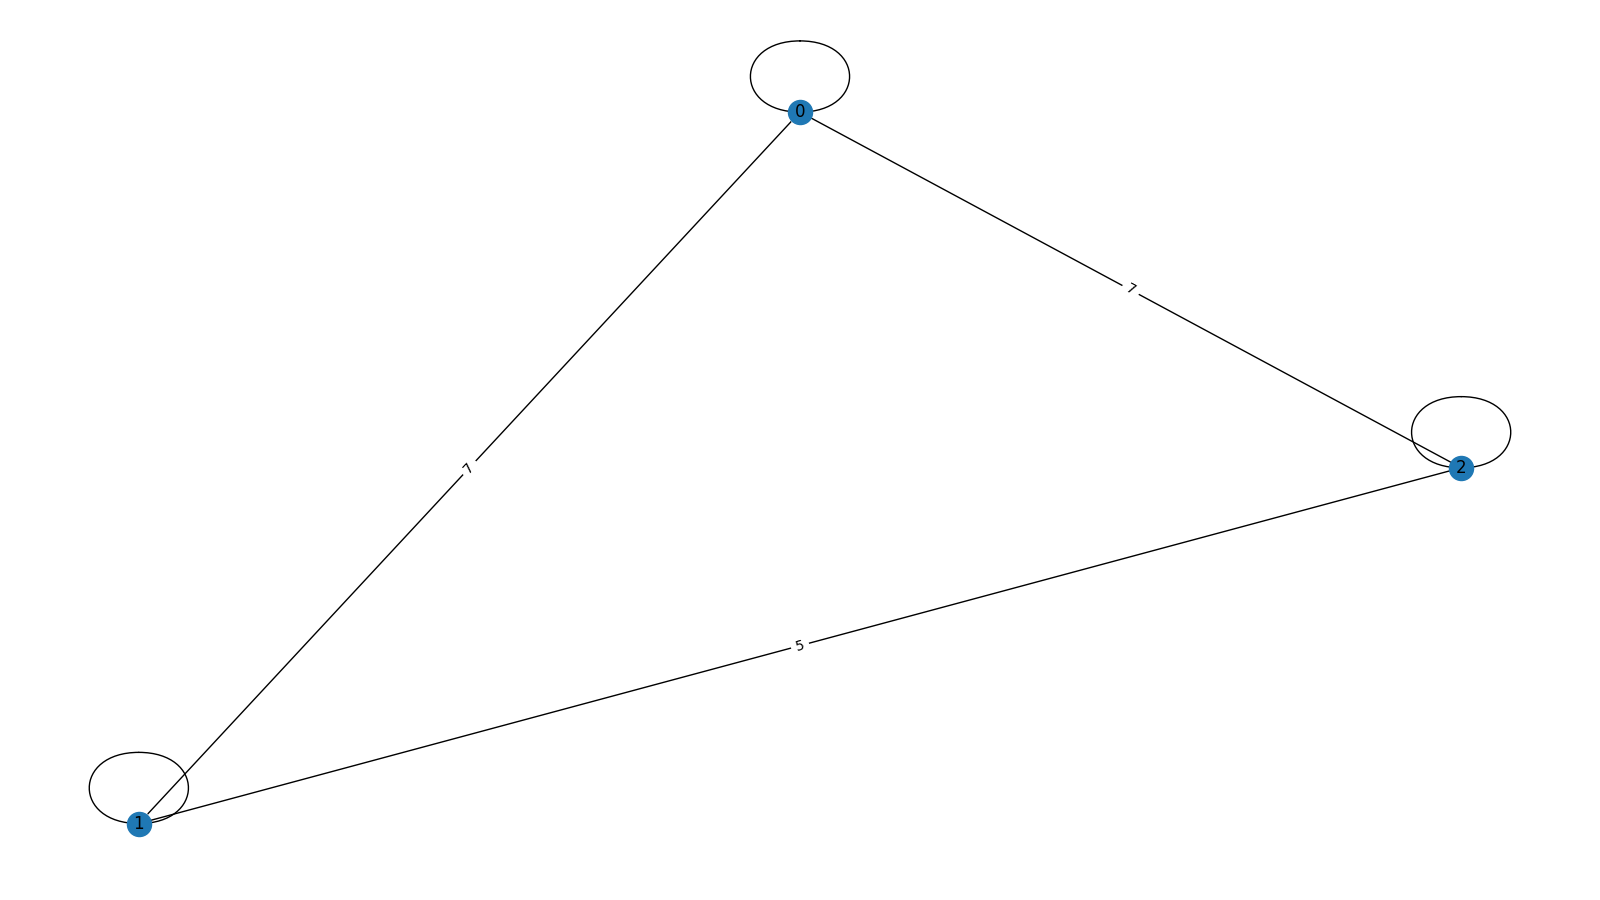
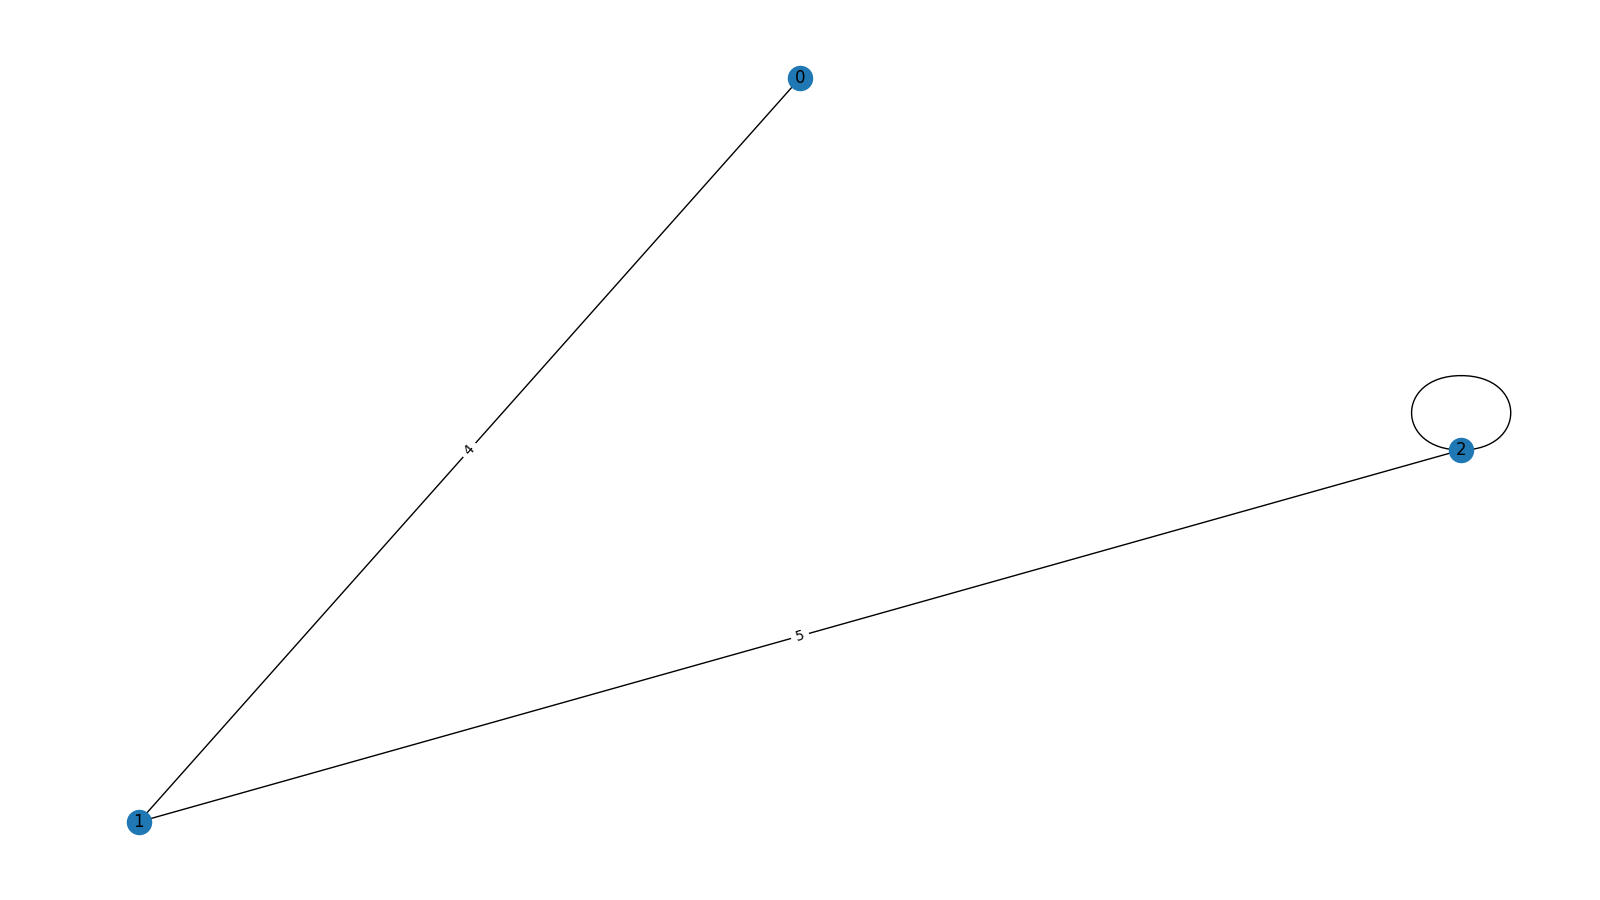
added remove edge

diff --git a/lib/graph_menu.h b/lib/graph_menu.h
@@ -264,6 +264,26 @@ void graphMenu() {
                         break;
                     }
 
+                    cout << "Remove edge\n";
+                    int i1, i2;
+                    cout << "Enter index1:";
+                    cin >> i1;
+                    cout << "Enter index2:";
+                    cin >> i2;
+
+                    intVertex *v1 = g->get(i1);
+                    intVertex *v2 = g->get(i2);
+                    if (v1 && v2) {
+                        bool isDeleted = g->deleteE(v1, v2);
+                        if (isDeleted) {
+                            cout << "~~ Remove! ~~\n";
+                        } else {
+                            cout << "-- Edge is not exists! --\n";
+                        }
+                    } else {
+                        cout << "-- there are no such vertices! --\n";
+                    }
+
                     break;
                 }
 
